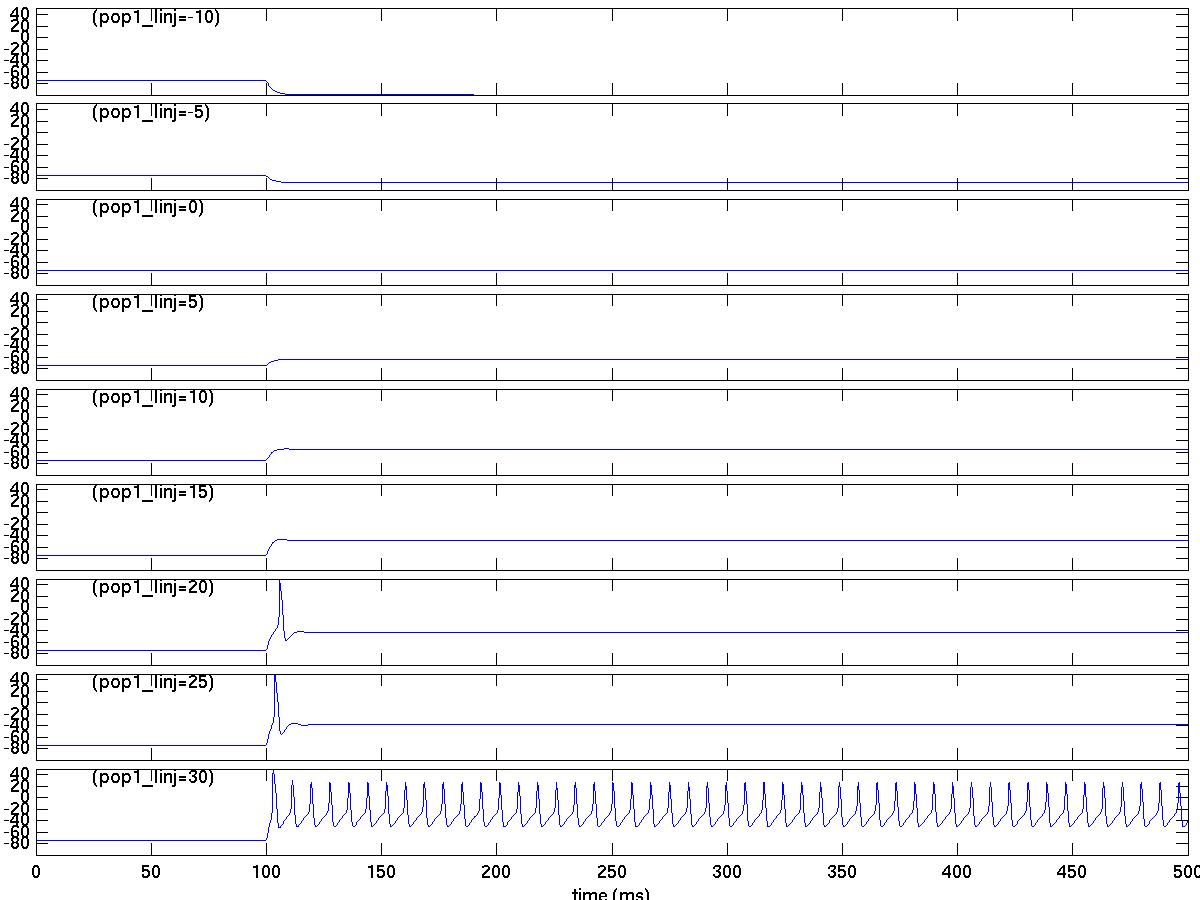
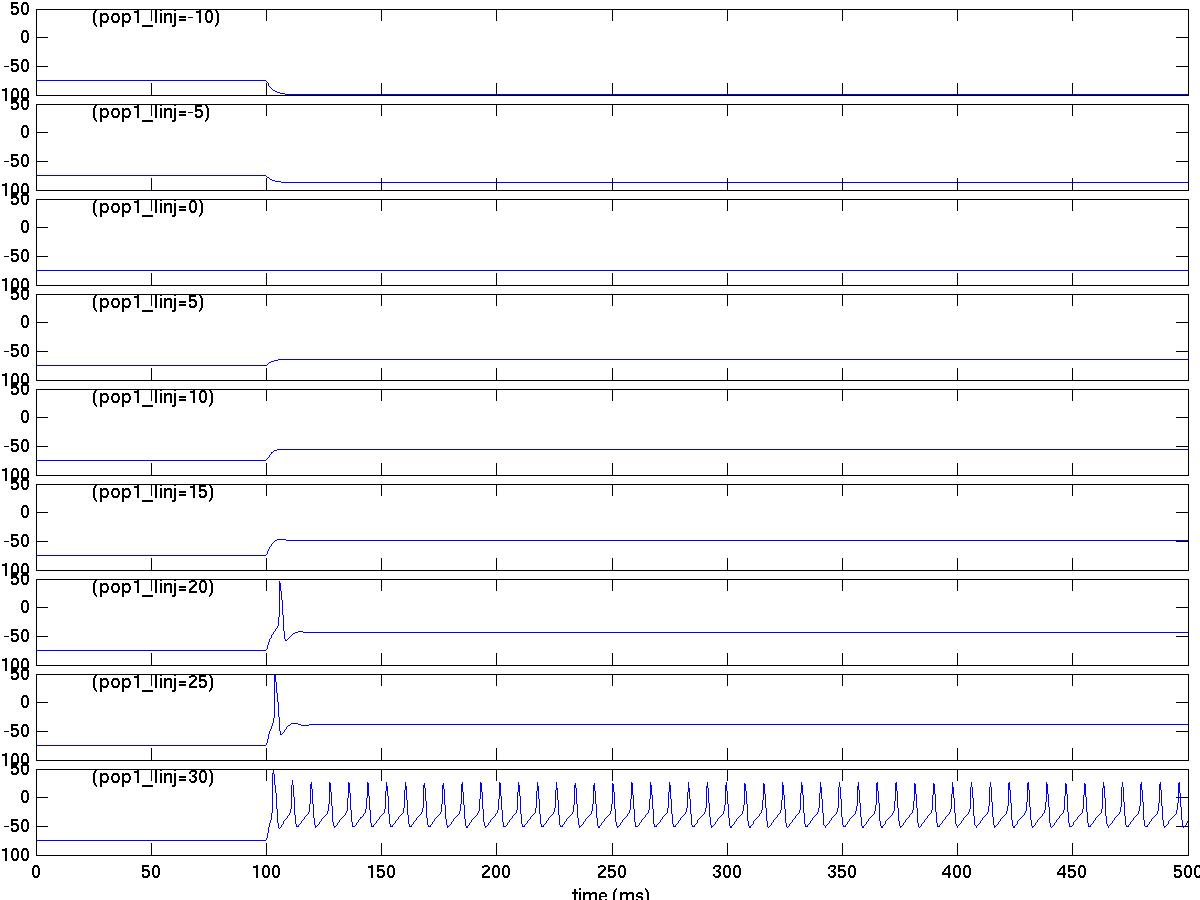
iKDRiNaF

Changed region(s): [[0.0, 0.0, 0.0308, 0.9644], [0.4008, 0.0933, 0.9867, 0.1244]]

diff --git a/dynasim_drivers/ACd_cell_models.m b/dynasim_drivers/ACd_cell_models.m
@@ -120,12 +120,14 @@ if save_plots_flag==1, plot_functions=@PlotData; else plot_functions=[]; end
 data=SimulateModel(model,'vary',vary,solver_options{:},'plot_functions',plot_functions,'plot_options',plot_options,'study_dir',study_dir,'prefix',prefix,'save_results_flag',save_plots_flag,'save_data_flag',save_data_flag);
 PlotData(data,'ylim',[-100 50]); file=fullfile(study_dir,'waveforms.jpg'); print(gcf,file,'-djpeg');
 
-if 0 % qualitatively assess a particular model
-  m=data(5).model; amps=-50:50:400; I=1:10;
+if 0 % quantitatively assess a particular model
+  index=8; m=data(index).model; amps=-50:25:550;
   d=ProbeCellProperties(ApplyModifications(m,{'Iinj',0}),'amplitudes',amps,solver_options{:});%'compile_flag',1,'verbose_flag',1,'solver','rk2');
-  PlotData(d(I))
+  PlotData(d(unique(round(linspace(1,length(d),10)))))
   stats=CalcCellProperties(d,'plot_flag',0);
   stats.pop1
+  file=fullfile(study_dir,sprintf('sim%g_ProbeCell_AHPtime%g_RMP%g_Ih%g_ISImedian%g_AR%g_APamp%g_APdur%g_ISI%g_FRmin%g.jpg',index,stats.pop1.AHP_time2trough,stats.pop1.RMP,stats.pop1.Ih_abssag,stats.pop1.ISI_median,stats.pop1.AR23,stats.pop1.AP_amp,stats.pop1.AP_dur,stats.pop1.ISI1,stats.pop1.FR_min));
+  print(gcf,file,'-djpeg');
 end  
 % -------------------------------------------------------------------------
 % Step 2: quantitative assessment of single IP = f(param)
